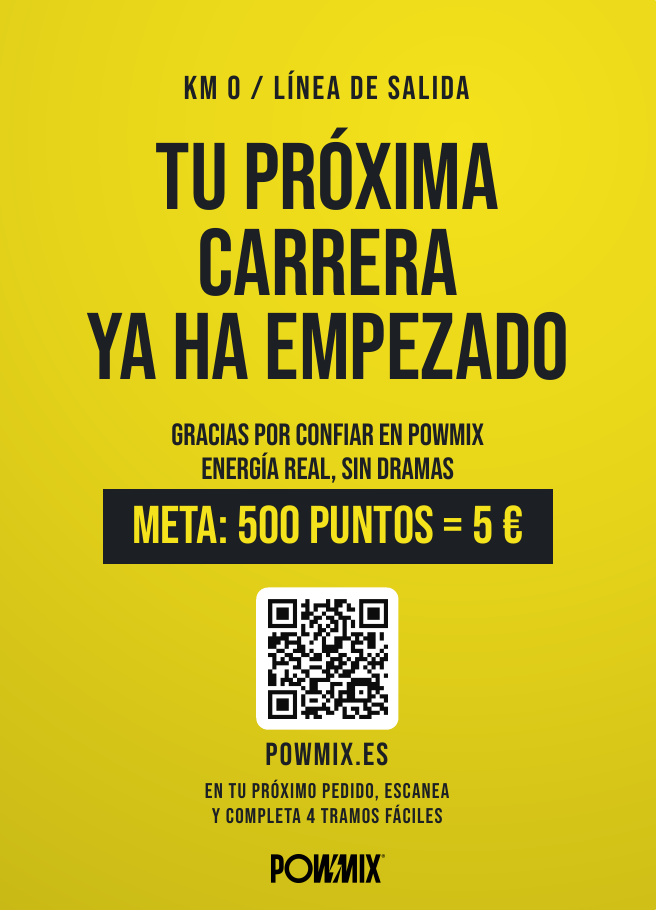
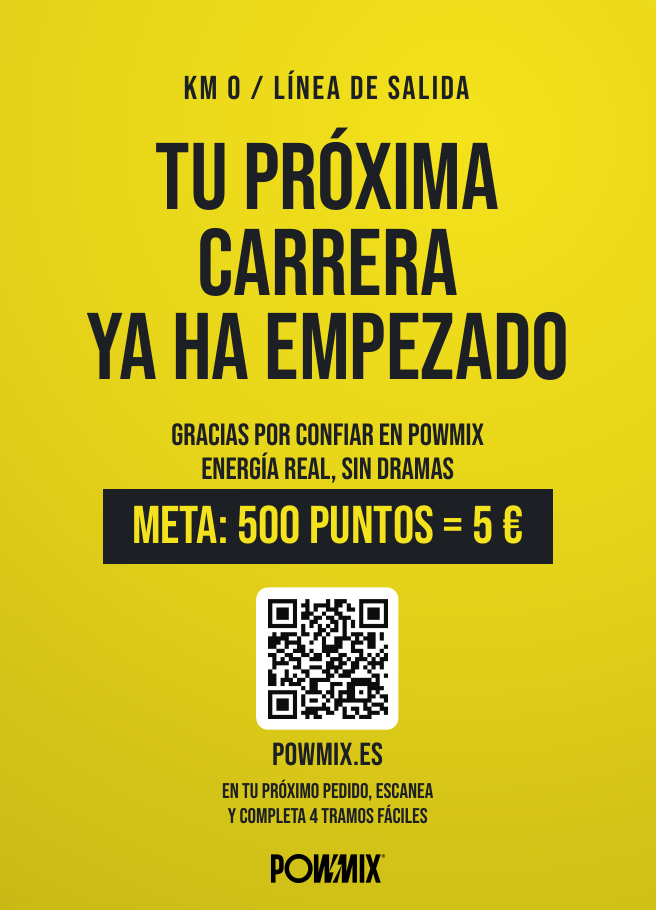
Tighten small text letter-spacing on A6 card
Claude-Session: https://claude.ai/code/session_01ESgrYfWtbUyydYC5uboLBi

Changed region(s): [[0.3044, 0.7991, 0.7002, 0.9221]]

diff --git a/a6/a6.html b/a6/a6.html
@@ -12,8 +12,8 @@ body{font-family:Bebas,sans-serif;color:#1c2024}
 .bar{background:#1c2024;color:#f4e21c;padding:1mm 5mm;white-space:nowrap}
 .pts{font-size:9mm;margin-top:auto}
 .row{display:flex;flex-direction:column;align-items:center;gap:1.2mm;margin-top:4mm;text-align:center}
-.row .t{font-size:3.6mm;line-height:1.15;letter-spacing:.2mm}
-.row .u{font-size:5.4mm;letter-spacing:.3mm}
+.row .t{font-size:3.6mm;line-height:1.15;letter-spacing:0}
+.row .u{font-size:5.4mm;letter-spacing:.05mm}
 .qr{width:24mm;height:24mm;background:#fff;padding:2mm;border-radius:2mm}
 .qr img{width:100%;height:100%}
 .logo{margin-top:4mm}.logo img{width:19mm}
@@ -23,10 +23,10 @@ h2{font-size:12mm;line-height:.9}
 .step b{font-weight:400;background:#1c2024;color:#f4e21c;display:flex;align-items:center;justify-content:center;width:15mm;height:6.6mm;padding:.7mm 0 0 .4mm;line-height:1;font-size:5mm;letter-spacing:.4mm}
 .step span{flex:1}.step i{font-style:normal;font-size:6mm}
 .meta{font-size:5.6mm;margin-top:4mm;width:100%}
-.note{font-size:4.2mm;margin-top:2mm}
+.note{font-size:4.2mm;margin-top:2mm;letter-spacing:0}
 .main{flex:1;display:flex;flex-direction:column;align-items:center;justify-content:center;width:100%}.gest{margin-top:7mm;width:100%;background:#f4e21c;display:flex;align-items:center;gap:4mm;padding:3mm 4mm;text-align:left}
 .gest .t{flex:1;font-size:5.8mm;line-height:1}
-.gest .t small{display:block;font-size:4.6mm;letter-spacing:.3mm;margin-top:1.5mm}
+.gest .t small{display:block;font-size:4.6mm;letter-spacing:0;margin-top:1.5mm}
 .gest .qr{width:20mm;height:20mm;padding:1.5mm}
 </style></head><body>
 <div class="p y">
